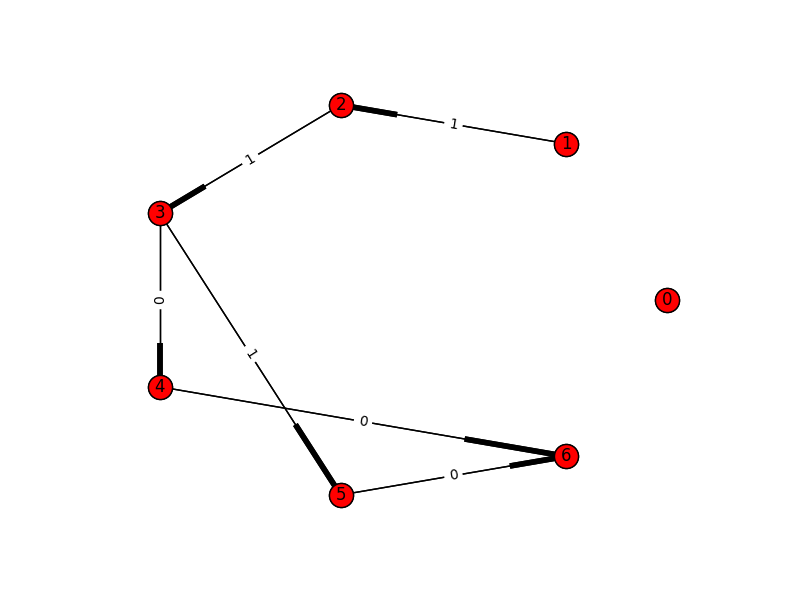
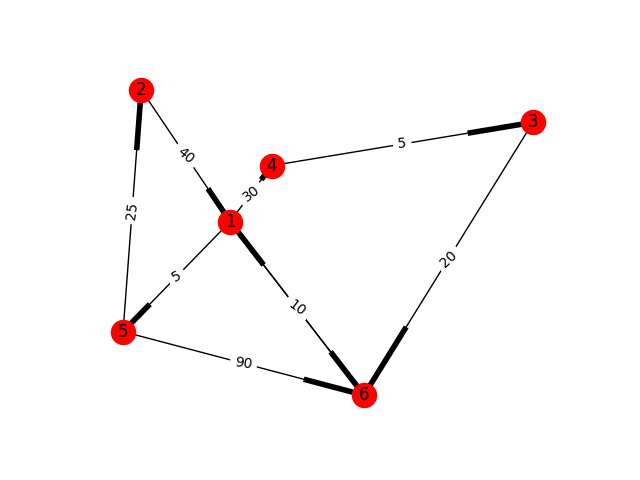
otro cambio en el operador< de set, anda el ejer2 con la clase DigrafoConPeso

diff --git a/metodos.cpp b/metodos.cpp
@@ -151,10 +151,10 @@ void printArr(int dist[], int n)
 //BellmanFord robado, dada una ciudad source(src) calcula las distancias minimas entre source y el resto
 //Tambien calcula la distancia entre source y source que es lo que necesitamos
 // le agregue un k que es cuanto vamos a restarle a todos los peajes
-bool BellmanFord(struct Graph* graph, int k)
+bool BellmanFord(DigrafoConPeso g, int k)
 {
-    int V = graph->V;
-    int E = graph->E;
+    int V = g.dameV();
+    int E = g.dameE();
     int dist[V];
  
     // Step 1: Initialize distances from src to all other vertices
@@ -168,11 +168,11 @@ bool BellmanFord(struct Graph* graph, int k)
     // edges
     for (int i = 1; i <= V-1; i++)
     {
-        for (int j = 0; j < E; j++)
+        for (std::set<Eje>::iterator it=g.aristasInicio(); it!=g.aristasFin(); ++it)
         {
-            int u = graph->edge[j].src;
-            int v = graph->edge[j].dest;
-            int weight = graph->edge[j].weight-k;
+            int u = (*it).dameU();
+            int v = (*it).dameV();
+            int weight = (*it).damePeso()-k;
             if (dist[u] != INT_MAX && dist[u] + weight < dist[v])
                 dist[v] = dist[u] + weight;
         }
@@ -184,11 +184,11 @@ bool BellmanFord(struct Graph* graph, int k)
     // is a cycle.
 
     //Esta parte es lo que necesitamos en el punto 2!
-    for (int i = 0; i < E; i++)
+    for (std::set<Eje>::iterator it=g.aristasInicio(); it!=g.aristasFin(); ++it)
     {
-        int u = graph->edge[i].src;
-        int v = graph->edge[i].dest;
-        int weight = graph->edge[i].weight-k;
+        int u = (*it).dameU();
+        int v = (*it).dameV();
+        int weight = (*it).damePeso()-k;
         if (dist[u] != INT_MAX && dist[u] + weight < dist[v])
             return true;
     }
@@ -197,7 +197,9 @@ bool BellmanFord(struct Graph* graph, int k)
     return false;
 }
  
-int ejercicio2(struct Graph* graph, int maxPeaje){
+
+
+int ejercicio2(DigrafoConPeso g, int maxPeaje){
     int reduccion;
     
     bool perdemosPlata;
@@ -207,7 +209,7 @@ int ejercicio2(struct Graph* graph, int maxPeaje){
     while(init<=fin){ //log(maxPeaje)
         reduccion=mid;
         
-        perdemosPlata=BellmanFord(graph,reduccion);//creo que bellmanFord es n*m
+        perdemosPlata=BellmanFord(g,reduccion);//creo que bellmanFord es n*m
 
         if(perdemosPlata){
         //si perdemos plata solucion esta entre init y mid (hay que reducir menos el precio)
@@ -221,7 +223,6 @@ int ejercicio2(struct Graph* graph, int maxPeaje){
 
     }  
     return reduccion;
-//me queda entonces O(n*m*log) ?
 }
 
 /* ------------------ Ejer 3 ------------------ */

diff --git a/grafos.h b/grafos.h
@@ -11,10 +11,10 @@ class Eje{
 		Eje(int n1, int n2): u(n1), v(n2), peso(0), premium(-1) {}
 		
 		//Getters
-		int dameU() {return u;}
-		int dameV() {return v;}
-		int damePeso() {return peso;}
-		int damePremium() {return premium;}
+		int dameU() const {return u;}
+		int dameV() const {return v;}
+		int damePeso() const {return peso;}
+		int damePremium() const {return premium;}
 
 		//Setters
 		int setU(int nodo) {u = nodo;}
@@ -23,8 +23,9 @@ class Eje{
 		int setPremium(int prem) {premium = prem;}
 
 		bool operator<(const Eje& ej) const{
-   			return peso < ej.peso;  //assume that you compare the record based on a
+   			return peso < ej.peso || u < ej.u || v < ej.v;  //assume that you compare the record based on a
 		}
+
 
 
 	private:
@@ -118,6 +119,11 @@ class DigrafoConPeso : public Grafo{
 
 		//Devuelve un iterador al final de la lista de aristas. Puede modificar elementos.
 		set<Eje>::iterator aristasFin();
+
+				//Getters
+		int dameV() {return V;}
+		int dameE() {return E;}
+
 
 
 	private:

diff --git a/ej2.cpp b/ej2.cpp
@@ -1,11 +1,3 @@
-#include <stdio.h>
-#include <stdlib.h>
-#include <string.h>
-#include <limits.h>
-#include <iostream>     // std::cout
-#include <algorithm>    // std::sort
-#include <vector>       // std::vector
-#include "grafos.h"     //Clases de grafos
 #include "metodos.h"    //Metodos de camino minimo
 
 using namespace std;
@@ -18,6 +10,7 @@ int main()
         int V;
         int E;
         cin >> V >> E;//proceso la primer linea
+
         if(V == -1)//si es la linea del -1 -1 chau
             break;
 
@@ -31,9 +24,9 @@ int main()
             cin >> c1 >> c2 >> p;
             if(p > maxPeaje)
                 maxPeaje = p;
-            grafo.agregarArista(c1, c2, p);
+            grafo.agregarEje(c1, c2, p);
         }
-        cout<< "Solucion de la entrada " << j << ": " << ejercicio2(graph, maxPeaje) << endl;
+        cout<< "Solucion de la entrada " << j << ": " << ejercicio2(grafo, maxPeaje) << endl;
         j++;
     }
 

diff --git a/Scripts/txtToGraph2.py b/Scripts/txtToGraph2.py
@@ -12,7 +12,7 @@ G=nx.DiGraph()
 linea0 = raw_input().split(' ')
 nodos = int(linea0[0])
 ejes = int(linea0[1])
-G.add_nodes_from([0,nodos-1])
+G.add_nodes_from([1,nodos])
 
 i = 0
 while(i < ejes):
@@ -26,9 +26,9 @@ while(i < ejes):
 
 
 edges = G.edges()
-pos=nx.circular_layout(G)
-nx.draw_circular(G,with_labels=True )
+pos=nx.spring_layout(G)
+# nx.draw(G,with_labels=True )
 labels = nx.get_edge_attributes(G,'weight')
-nx.draw_networkx_edge_labels(G,pos,edge_labels=labels,arrows=True)
-nx.draw(G, pos, edges=edges)
+nx.draw_networkx_edge_labels(G,pos,edge_labels=labels)
+nx.draw(G,pos,with_labels=True,node_size=300, edges=edges)
 plt.savefig("grafo_ejer2.png")

diff --git a/metodos.h b/metodos.h
@@ -18,9 +18,9 @@ int ejercicio1(GrafoConPremium &grafo, int src, int dest, int k);
 
 /* ------------------ Ejer 2 ------------------------------------- */
 
-bool BellmanFord(struct Graph* graph, int k);
+bool BellmanFord(DigrafoConPeso graph, int k);
 
-int ejercicio2(struct Graph* graph, int maxPeaje);
+int ejercicio2(DigrafoConPeso graph, int maxPeaje);
 
 /* ------------------ Ejer 3 ------------------------------------- */
 

diff --git a/grafos.cpp b/grafos.cpp
@@ -116,7 +116,7 @@ void DigrafoConPeso::agregarEje(int u, int v, int peso){
 	Eje nuevaArista(u, v, peso);
 	aristas.insert(nuevaArista);
 
-	// E = aristas.size();
+	E = aristas.size();
 
 }
 
